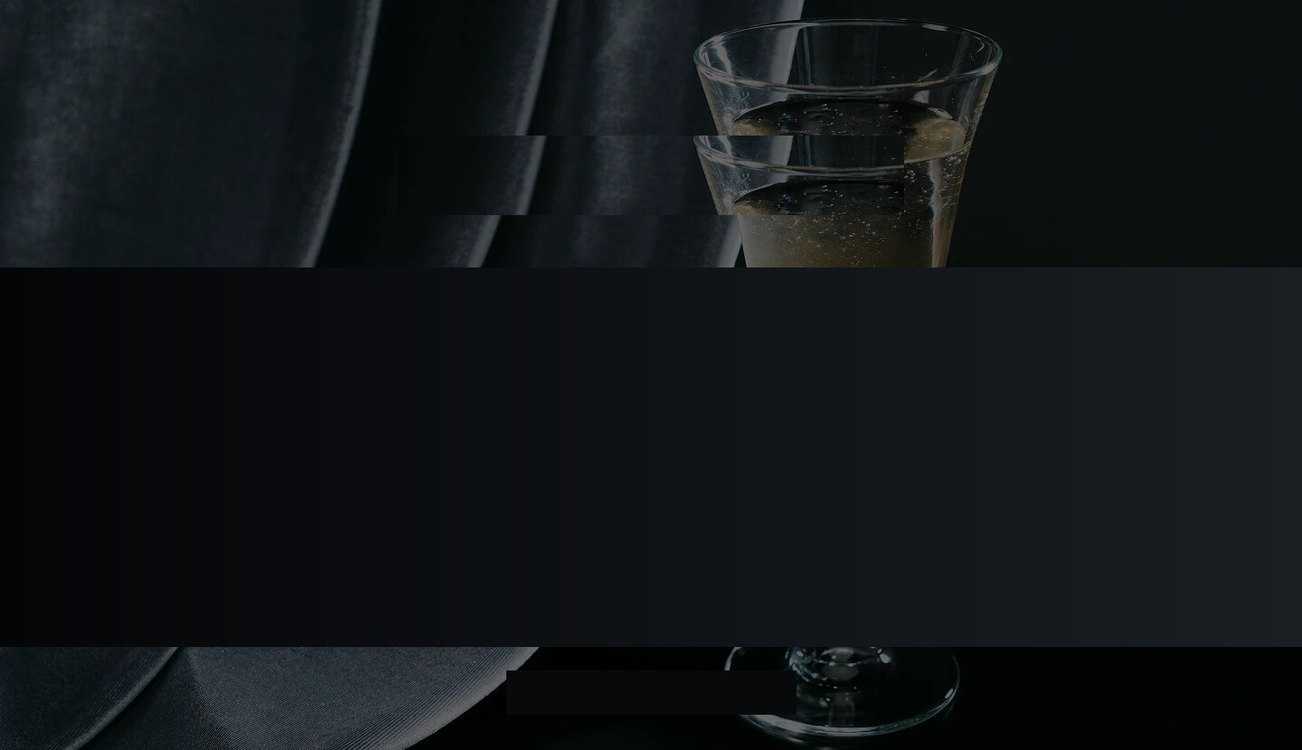
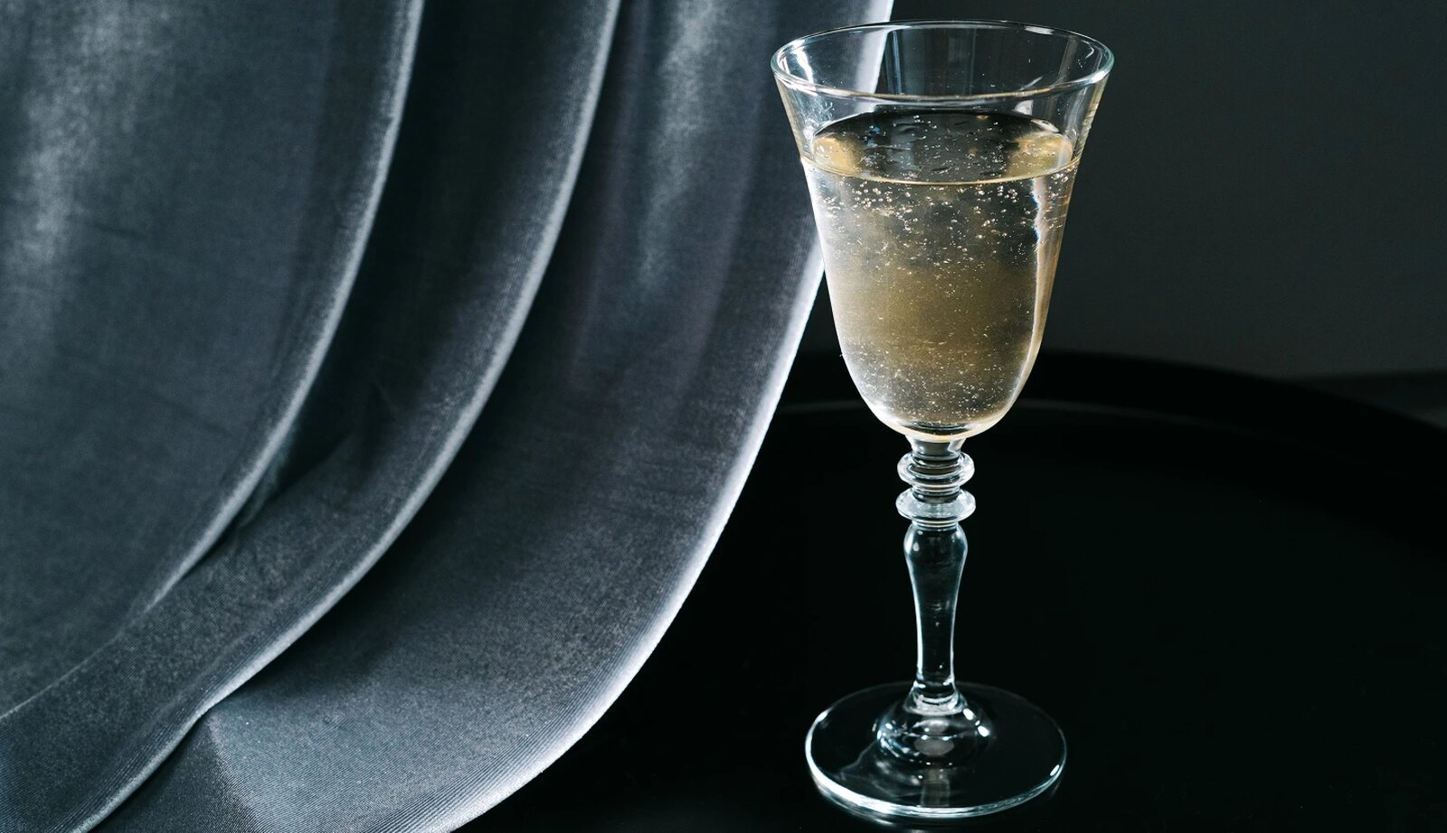
Move clean glass background to testimonials; revert orlando-based to light theme
Claude-Session: https://claude.ai/code/session_01UW4uLMXzVXrjGgTwPhtFqi

diff --git a/meet-us/index.html b/meet-us/index.html
@@ -9,7 +9,7 @@
 <link rel="preconnect" href="https://fonts.googleapis.com">
 <link rel="preconnect" href="https://fonts.gstatic.com" crossorigin>
 <link rel="stylesheet" href="https://fonts.googleapis.com/css2?family=Mr+Bedfort&display=swap">
-<link rel="stylesheet" href="../styles.css?v=38">
+<link rel="stylesheet" href="../styles.css?v=39">
 </head>
 <body class="page-who-we-are">
 <header class="who-we-are-hdr dlc-header">
@@ -21,7 +21,7 @@
   <a href='../' class=''>Home</a><a href='../meet-us/' class=''>Meet Us</a><a href='../services/' class=''>Services</a><a href='../portfolio/' class=''>Portfolio</a><a href='../contact/' class=''>Contact Us</a>
 <div class="dlc-menu-social"><a href="https://www.instagram.com/dl.collective" target="_blank" rel="noopener noreferrer" aria-label="instagram"><svg viewBox="0 0 24 24" aria-hidden="true"><path fill="currentColor" fill-rule="evenodd" clip-rule="evenodd" d="M7 2.5h10A4.5 4.5 0 0 1 21.5 7v10a4.5 4.5 0 0 1-4.5 4.5H7A4.5 4.5 0 0 1 2.5 17V7A4.5 4.5 0 0 1 7 2.5zm5 4.7a4.6 4.6 0 1 0 0 9.2 4.6 4.6 0 0 0 0-9.2zm0 1.8a2.8 2.8 0 1 1 0 5.6 2.8 2.8 0 0 1 0-5.6zm5-2.5a1.1 1.1 0 1 0 0 2.2 1.1 1.1 0 0 0 0-2.2z"/></svg></a><a href="mailto:dl.collective@outlook.com" aria-label="envelope"><svg viewBox="0 0 24 24" aria-hidden="true"><path fill="currentColor" fill-rule="evenodd" clip-rule="evenodd" d="M4 5.5h16A1.5 1.5 0 0 1 21.5 7v10a1.5 1.5 0 0 1-1.5 1.5H4A1.5 1.5 0 0 1 2.5 17V7A1.5 1.5 0 0 1 4 5.5zm.8 2.3L12 12.6l7.2-4.8V8L12 13.2 4.8 8z"/></svg></a><a href="tel:+14077902436" aria-label="phone"><svg viewBox="0 0 24 24" aria-hidden="true"><path fill="currentColor" d="M8.2 4.8c.42 0 .8.26.95.65l1.1 2.75c.15.37.06.8-.24 1.07l-1.3 1.2a9.5 9.5 0 0 0 4 4l1.2-1.3c.27-.3.7-.39 1.07-.24l2.75 1.1c.39.15.65.53.65.95v2.9c0 .58-.47 1.05-1.05 1.04C10.5 20.6 3.4 13.5 3.4 5.85c0-.58.47-1.05 1.05-1.05h3.75z"/></svg></a><a href="https://www.linkedin.com/company/dl-collective-marketing-agency/" target="_blank" rel="noopener noreferrer" aria-label="linkedin"><svg viewBox="0 0 24 24" aria-hidden="true"><path fill="currentColor" d="M20.45 20.45h-3.56v-5.57c0-1.33-.02-3.04-1.85-3.04-1.85 0-2.14 1.45-2.14 2.94v5.67H9.35V9h3.42v1.56h.05c.48-.9 1.64-1.85 3.37-1.85 3.6 0 4.27 2.37 4.27 5.46v6.28zM5.34 7.43a2.07 2.07 0 1 1 0-4.14 2.07 2.07 0 0 1 0 4.14zM7.12 20.45H3.55V9h3.57v11.45zM22.22 0H1.77C.79 0 0 .77 0 1.73v20.54C0 23.22.79 24 1.77 24h20.45c.98 0 1.78-.78 1.78-1.73V1.73C24 .77 23.2 0 22.22 0z"/></svg></a></div></nav><div class="img who-we-are-hdr-2 auto"><a href="../" class="dlc-logo-trigger" aria-label="Open menu"><img class="dlc-logo-dark" src="../media/logos/dlc-logo.png" alt="DL Collective Marketing Agency"><img class="dlc-logo-light" src="../media/logos/dlc-logo-white.png" alt="DL Collective Marketing Agency"></a></div></header>
 <aside class="who-we-are-social dlc-side-social"><a class="icon who-we-are-social-1" href="https://www.instagram.com/dl.collective" target="_blank" rel="noopener noreferrer" aria-label="instagram"><svg viewBox="0 0 24 24" aria-hidden="true"><path fill="currentColor" fill-rule="evenodd" clip-rule="evenodd" d="M7 2.5h10A4.5 4.5 0 0 1 21.5 7v10a4.5 4.5 0 0 1-4.5 4.5H7A4.5 4.5 0 0 1 2.5 17V7A4.5 4.5 0 0 1 7 2.5zm5 4.7a4.6 4.6 0 1 0 0 9.2 4.6 4.6 0 0 0 0-9.2zm0 1.8a2.8 2.8 0 1 1 0 5.6 2.8 2.8 0 0 1 0-5.6zm5-2.5a1.1 1.1 0 1 0 0 2.2 1.1 1.1 0 0 0 0-2.2z"/></svg></a><a class="icon who-we-are-social-2" href="mailto:dl.collective@outlook.com" aria-label="envelope"><svg viewBox="0 0 24 24" aria-hidden="true"><path fill="currentColor" fill-rule="evenodd" clip-rule="evenodd" d="M4 5.5h16A1.5 1.5 0 0 1 21.5 7v10a1.5 1.5 0 0 1-1.5 1.5H4A1.5 1.5 0 0 1 2.5 17V7A1.5 1.5 0 0 1 4 5.5zm.8 2.3L12 12.6l7.2-4.8V8L12 13.2 4.8 8z"/></svg></a><a class="icon who-we-are-social-3" href="tel:+14077902436" aria-label="phone"><svg viewBox="0 0 24 24" aria-hidden="true"><path fill="currentColor" d="M8.2 4.8c.42 0 .8.26.95.65l1.1 2.75c.15.37.06.8-.24 1.07l-1.3 1.2a9.5 9.5 0 0 0 4 4l1.2-1.3c.27-.3.7-.39 1.07-.24l2.75 1.1c.39.15.65.53.65.95v2.9c0 .58-.47 1.05-1.05 1.04C10.5 20.6 3.4 13.5 3.4 5.85c0-.58.47-1.05 1.05-1.05h3.75z"/></svg></a><a class="icon who-we-are-social-4" href="https://www.linkedin.com/company/dl-collective-marketing-agency/" target="_blank" rel="noopener noreferrer" aria-label="linkedin"><svg viewBox="0 0 24 24" aria-hidden="true"><path fill="currentColor" d="M20.45 20.45h-3.56v-5.57c0-1.33-.02-3.04-1.85-3.04-1.85 0-2.14 1.45-2.14 2.94v5.67H9.35V9h3.42v1.56h.05c.48-.9 1.64-1.85 3.37-1.85 3.6 0 4.27 2.37 4.27 5.46v6.28zM5.34 7.43a2.07 2.07 0 1 1 0-4.14 2.07 2.07 0 0 1 0 4.14zM7.12 20.45H3.55V9h3.57v11.45zM22.22 0H1.77C.79 0 0 .77 0 1.73v20.54C0 23.22.79 24 1.77 24h20.45c.98 0 1.78-.78 1.78-1.73V1.73C24 .77 23.2 0 22.22 0z"/></svg></a></aside>
-<main><section class="who-we-are-s1 dlc-hero"><h5 class="who-we-are-s1-1">DL Collective Marketing</h5><h6 class="who-we-are-s1-2">( a strategic marketing collective )</h6><h1 class="who-we-are-s1-3">Partnering with DL Collective means choosing a team driven by passion, precision, and purpose.</h1></section><section class="who-we-are-s2"><div class="inner"><h2 class="who-we-are-s2-1">Meet The Founders</h2><div class="who-we-are-s2-2"><div class="who-we-are-s2-2-1"><div class="img who-we-are-s2-2-1-1"><img src="../media/images/meet-cocktails.jpg" alt="DL Collective team at an Orlando Magic event"></div><h4 class="who-we-are-s2-2-1-2">do one thing and do it well.</h4><div class="text who-we-are-s2-2-1-3"><p>DL Collective is founded and led by Lauren Miller, combining creative direction with strategic insight to help brands grow with clarity and purpose.</p><p><strong style='color:#E0479E'>Lauren,</strong> holds a bachelor's degree in Advertising and a master's in Entrepreneurship from the University of Florida. She brings a background in advertising and marketing, with experience spanning agency work and national brand partnerships. Her foundation in storytelling, creative direction, and campaign strategy drives DL Collective's approach to building brands that feel intentional, authentic, and visually cohesive.</p><p><strong style='color:#E0479E'>Danly,</strong> co-founder holds a bachelor's degree in Business Administration from Southern New Hampshire University. He brings a data-driven perspective shaped by his experience supporting national sales teams at Fortune 500 companies through analytics and performance strategy, specializing in translating data into actionable direction to support measurable, long-term growth.</p><p><strong>Let's collaborate to elevate your brand and create something exceptional together.</strong></p></div></div><div class="who-we-are-s2-2-2"><div class="img who-we-are-s2-2-2-1"><img src="../media/images/meet-founders.jpg" alt="Lauren Miller and Danly, founders of DL Collective"></div></div></div></div></section><section class="who-we-are-s3"><div class="inner"><h2 class="who-we-are-s3-1">Who We Work With</h2><div class="who-we-are-s3-2"><div class="who-we-are-s3-2-1"><div class="img who-we-are-s3-2-1-1"><img src="../media/images/work-food-beverage.jpg?v=2" alt="Food &amp; Beverage"></div><h4 class="who-we-are-s3-2-1-2">Food &amp; Beverage</h4><div class="text who-we-are-s3-2-1-3">Restaurants<br>Bars<br>Cafés &amp; Markets<br>Concepts<br>Chefs &amp; Personalities</div></div><div class="who-we-are-s3-2-2"><div class="img who-we-are-s3-2-2-1"><img src="../media/images/work-hotel-travel.jpg?v=2" alt="Hotel &amp; Travel"></div><h4 class="who-we-are-s3-2-2-2">Hotel &amp; Travel</h4><div class="text who-we-are-s3-2-2-3">Hotels &amp; Resorts<br>Destinations<br>Tours &amp; Travel Services<br>Outdoor &amp; Camping<br>Yachts &amp; Boating</div></div><div class="who-we-are-s3-2-3"><div class="img who-we-are-s3-2-3-1"><img src="../media/images/work-health-wellness.jpg?v=2" alt="Health &amp; Wellness"></div><h4 class="who-we-are-s3-2-3-2">Health &amp; Wellness</h4><div class="text who-we-are-s3-2-3-3">Wellness Tourism<br>Spas<br>Fitness<br>Wellness Design</div></div><div class="who-we-are-s3-2-4"><div class="img who-we-are-s3-2-4-1"><img src="../media/images/work-consumer-goods.jpg?v=2" alt="Consumer Goods"></div><h4 class="who-we-are-s3-2-4-2">Consumer Goods</h4><div class="text who-we-are-s3-2-4-3">Consumer Packaged Goods<br>Beer<br>Wine<br>Spirits<br>Cookbooks</div></div><div class="who-we-are-s3-2-5"><div class="img who-we-are-s3-2-5-1"><img src="../media/images/work-events.jpg?v=2" alt="Events"></div><h4 class="who-we-are-s3-2-5-2">Events</h4><div class="text who-we-are-s3-2-5-3">Festivals<br>Markets<br>Pop-ups<br>Venues<br>Catering</div></div><div class="who-we-are-s3-2-6"><div class="img who-we-are-s3-2-6-1"><img src="../media/images/work-design-architecture.jpg?v=2" alt="Design &amp; Architecture"></div><h4 class="who-we-are-s3-2-6-2">Design &amp; Architecture</h4><div class="text who-we-are-s3-2-6-3">Hospitality Design<br>Food Styling<br>Retail<br>Mixed-Use Developments<br>Real Estate</div></div></div></div></section><section class="who-we-are-s4"><div class="who-we-are-s4-1"></div><div class="who-we-are-s4-2"><h2 class="who-we-are-s4-2-1">How We Work</h2><div class="text who-we-are-s4-2-2">Our services are designed with flexibility in mind. Everything you need to jumpstart your brand's marketing — to learn more or find the best fit for your goals, <a href='../contact/' style='color:#8FD9A0'>contact us</a> for a personalized consultation.</div><ul class="list who-we-are-s4-2-3"><li>Discovery Call</li></ul><div class="text who-we-are-s4-2-4">We learn about your business, goals, and challenges to ensure alignment and define the right direction moving forward.</div><ul class="list who-we-are-s4-2-5"><li>Brand &amp; Marketing Audit</li></ul><div class="text who-we-are-s4-2-6">We review your current brand, content, and marketing efforts to identify opportunities for improvement and growth.</div><ul class="list who-we-are-s4-2-7"><li><svg viewBox="0 0 24 24" width="13" height="13" fill="currentColor" aria-hidden="true"><circle cx="12" cy="12" r="6"/></svg>Strategy &amp; Onboarding</li></ul><div class="text who-we-are-s4-2-8">We establish a clear plan, define priorities, and align creative and marketing strategy before execution begins.</div><ul class="list who-we-are-s4-2-9"><li>Collective Marketing Packages</li></ul><div class="text who-we-are-s4-2-10">Choose from one of our three subscription packages <strong style='color:#B6F11B'>— Essential Presence, Growth Strategy or Premium Creative Partnership —</strong> for ongoing support, or explore our add-on and stand-alone services for one-time projects.</div></div></section><section class="who-we-are-s5"><div class="inner"><h2 class="who-we-are-s5-2">our clients say it best</h2><div class="who-we-are-s5-3"><div class="inner"><div class="who-we-are-s5-3-1"><div class="text who-we-are-s5-3-1-1"><span class="qm" style='color:#2E9BD6'>&ldquo;</span> As a luxury custom home builder, our reputation is built on relationships and trust. DL Collective has helped us communicate that through thoughtful content &amp; events. <span class="qm" style='color:#2E9BD6'>&rdquo;</span></div><h4 class="who-we-are-s5-3-1-2">Dean Miller</h4><div class="text who-we-are-s5-3-1-3">@DeanAllenCompany</div></div><div class="who-we-are-s5-3-2"><div class="text who-we-are-s5-3-2-1"><span class="qm" style='color:#7CB342'>&ldquo;</span> DL Collective has helped refine how AllyCar connects with our customers. Their marketing reflects the level of service and professionalism we aim to provide. <span class="qm" style='color:#7CB342'>&rdquo;</span></div><h4 class="who-we-are-s5-3-2-2">Gil Guimaraes</h4><div class="text who-we-are-s5-3-2-3">@AllyCar</div></div><div class="who-we-are-s5-3-3"><div class="text who-we-are-s5-3-3-1"><span class="qm" style='color:#E0479E'>&ldquo;</span> Working with DL Collective was a great experience. The photos, videos, and marketing materials captured our brand very well. <span class="qm" style='color:#E0479E'>&rdquo;</span></div><h4 class="who-we-are-s5-3-3-2">Dylan Moreno</h4><div class="text who-we-are-s5-3-3-3">@PrestigeBarberLounge</div><div class="pb-mono">PB</div></div></div></div><div class="btn who-we-are-s5-4"><a href="../">Show More</a></div></div></section><section class="who-we-are-s6"><div class="inner"><h2 class="who-we-are-s6-1">orlando-based, clients worldwide</h2><div class="text who-we-are-s6-2 dlc-narrow">DL Collective is based in Winter Park, Florida, and currently serves businesses throughout Florida as well as national clients across the United States. We regularly travel for onsite content production, photography, videography, and marketing engagements when needed.</div><div class="who-we-are-s6-3"><div class="inner"><div class="who-we-are-s6-3-1"><span class="icon who-we-are-s6-3-1-1"><img src="../media/images/loc-winter-park-white.png" alt=""></span><h5 class="who-we-are-s6-3-1-2">Winter Park, FL</h5></div><div class="who-we-are-s6-3-2"><span class="icon who-we-are-s6-3-2-1"><img src="../media/images/loc-orlando-white.png" alt=""></span><h5 class="who-we-are-s6-3-2-2">Orlando, FL</h5></div><div class="who-we-are-s6-3-3"><span class="icon who-we-are-s6-3-3-1"><img src="../media/images/loc-central-florida-white.png" alt=""></span><h5 class="who-we-are-s6-3-3-2">Central Florida</h5></div><div class="who-we-are-s6-3-4"><span class="icon who-we-are-s6-3-4-1"><img src="../media/images/loc-florida-statewide-white.png" alt=""></span><h5 class="who-we-are-s6-3-4-2">Florida Statewide</h5></div><div class="who-we-are-s6-3-5"><span class="icon who-we-are-s6-3-5-1"><img src="../media/images/loc-nationwide-white.png" alt=""></span><h5 class="who-we-are-s6-3-5-2">Nationwide, USA</h5></div></div></div></div></section></main>
+<main><section class="who-we-are-s1 dlc-hero"><h5 class="who-we-are-s1-1">DL Collective Marketing</h5><h6 class="who-we-are-s1-2">( a strategic marketing collective )</h6><h1 class="who-we-are-s1-3">Partnering with DL Collective means choosing a team driven by passion, precision, and purpose.</h1></section><section class="who-we-are-s2"><div class="inner"><h2 class="who-we-are-s2-1">Meet The Founders</h2><div class="who-we-are-s2-2"><div class="who-we-are-s2-2-1"><div class="img who-we-are-s2-2-1-1"><img src="../media/images/meet-cocktails.jpg" alt="DL Collective team at an Orlando Magic event"></div><h4 class="who-we-are-s2-2-1-2">do one thing and do it well.</h4><div class="text who-we-are-s2-2-1-3"><p>DL Collective is founded and led by Lauren Miller, combining creative direction with strategic insight to help brands grow with clarity and purpose.</p><p><strong style='color:#E0479E'>Lauren,</strong> holds a bachelor's degree in Advertising and a master's in Entrepreneurship from the University of Florida. She brings a background in advertising and marketing, with experience spanning agency work and national brand partnerships. Her foundation in storytelling, creative direction, and campaign strategy drives DL Collective's approach to building brands that feel intentional, authentic, and visually cohesive.</p><p><strong style='color:#E0479E'>Danly,</strong> co-founder holds a bachelor's degree in Business Administration from Southern New Hampshire University. He brings a data-driven perspective shaped by his experience supporting national sales teams at Fortune 500 companies through analytics and performance strategy, specializing in translating data into actionable direction to support measurable, long-term growth.</p><p><strong>Let's collaborate to elevate your brand and create something exceptional together.</strong></p></div></div><div class="who-we-are-s2-2-2"><div class="img who-we-are-s2-2-2-1"><img src="../media/images/meet-founders.jpg" alt="Lauren Miller and Danly, founders of DL Collective"></div></div></div></div></section><section class="who-we-are-s3"><div class="inner"><h2 class="who-we-are-s3-1">Who We Work With</h2><div class="who-we-are-s3-2"><div class="who-we-are-s3-2-1"><div class="img who-we-are-s3-2-1-1"><img src="../media/images/work-food-beverage.jpg?v=2" alt="Food &amp; Beverage"></div><h4 class="who-we-are-s3-2-1-2">Food &amp; Beverage</h4><div class="text who-we-are-s3-2-1-3">Restaurants<br>Bars<br>Cafés &amp; Markets<br>Concepts<br>Chefs &amp; Personalities</div></div><div class="who-we-are-s3-2-2"><div class="img who-we-are-s3-2-2-1"><img src="../media/images/work-hotel-travel.jpg?v=2" alt="Hotel &amp; Travel"></div><h4 class="who-we-are-s3-2-2-2">Hotel &amp; Travel</h4><div class="text who-we-are-s3-2-2-3">Hotels &amp; Resorts<br>Destinations<br>Tours &amp; Travel Services<br>Outdoor &amp; Camping<br>Yachts &amp; Boating</div></div><div class="who-we-are-s3-2-3"><div class="img who-we-are-s3-2-3-1"><img src="../media/images/work-health-wellness.jpg?v=2" alt="Health &amp; Wellness"></div><h4 class="who-we-are-s3-2-3-2">Health &amp; Wellness</h4><div class="text who-we-are-s3-2-3-3">Wellness Tourism<br>Spas<br>Fitness<br>Wellness Design</div></div><div class="who-we-are-s3-2-4"><div class="img who-we-are-s3-2-4-1"><img src="../media/images/work-consumer-goods.jpg?v=2" alt="Consumer Goods"></div><h4 class="who-we-are-s3-2-4-2">Consumer Goods</h4><div class="text who-we-are-s3-2-4-3">Consumer Packaged Goods<br>Beer<br>Wine<br>Spirits<br>Cookbooks</div></div><div class="who-we-are-s3-2-5"><div class="img who-we-are-s3-2-5-1"><img src="../media/images/work-events.jpg?v=2" alt="Events"></div><h4 class="who-we-are-s3-2-5-2">Events</h4><div class="text who-we-are-s3-2-5-3">Festivals<br>Markets<br>Pop-ups<br>Venues<br>Catering</div></div><div class="who-we-are-s3-2-6"><div class="img who-we-are-s3-2-6-1"><img src="../media/images/work-design-architecture.jpg?v=2" alt="Design &amp; Architecture"></div><h4 class="who-we-are-s3-2-6-2">Design &amp; Architecture</h4><div class="text who-we-are-s3-2-6-3">Hospitality Design<br>Food Styling<br>Retail<br>Mixed-Use Developments<br>Real Estate</div></div></div></div></section><section class="who-we-are-s4"><div class="who-we-are-s4-1"></div><div class="who-we-are-s4-2"><h2 class="who-we-are-s4-2-1">How We Work</h2><div class="text who-we-are-s4-2-2">Our services are designed with flexibility in mind. Everything you need to jumpstart your brand's marketing — to learn more or find the best fit for your goals, <a href='../contact/' style='color:#8FD9A0'>contact us</a> for a personalized consultation.</div><ul class="list who-we-are-s4-2-3"><li>Discovery Call</li></ul><div class="text who-we-are-s4-2-4">We learn about your business, goals, and challenges to ensure alignment and define the right direction moving forward.</div><ul class="list who-we-are-s4-2-5"><li>Brand &amp; Marketing Audit</li></ul><div class="text who-we-are-s4-2-6">We review your current brand, content, and marketing efforts to identify opportunities for improvement and growth.</div><ul class="list who-we-are-s4-2-7"><li><svg viewBox="0 0 24 24" width="13" height="13" fill="currentColor" aria-hidden="true"><circle cx="12" cy="12" r="6"/></svg>Strategy &amp; Onboarding</li></ul><div class="text who-we-are-s4-2-8">We establish a clear plan, define priorities, and align creative and marketing strategy before execution begins.</div><ul class="list who-we-are-s4-2-9"><li>Collective Marketing Packages</li></ul><div class="text who-we-are-s4-2-10">Choose from one of our three subscription packages <strong style='color:#B6F11B'>— Essential Presence, Growth Strategy or Premium Creative Partnership —</strong> for ongoing support, or explore our add-on and stand-alone services for one-time projects.</div></div></section><section class="who-we-are-s5"><div class="inner"><h2 class="who-we-are-s5-2">our clients say it best</h2><div class="who-we-are-s5-3"><div class="inner"><div class="who-we-are-s5-3-1"><div class="text who-we-are-s5-3-1-1"><span class="qm" style='color:#2E9BD6'>&ldquo;</span> As a luxury custom home builder, our reputation is built on relationships and trust. DL Collective has helped us communicate that through thoughtful content &amp; events. <span class="qm" style='color:#2E9BD6'>&rdquo;</span></div><h4 class="who-we-are-s5-3-1-2">Dean Miller</h4><div class="text who-we-are-s5-3-1-3">@DeanAllenCompany</div></div><div class="who-we-are-s5-3-2"><div class="text who-we-are-s5-3-2-1"><span class="qm" style='color:#7CB342'>&ldquo;</span> DL Collective has helped refine how AllyCar connects with our customers. Their marketing reflects the level of service and professionalism we aim to provide. <span class="qm" style='color:#7CB342'>&rdquo;</span></div><h4 class="who-we-are-s5-3-2-2">Gil Guimaraes</h4><div class="text who-we-are-s5-3-2-3">@AllyCar</div></div><div class="who-we-are-s5-3-3"><div class="text who-we-are-s5-3-3-1"><span class="qm" style='color:#E0479E'>&ldquo;</span> Working with DL Collective was a great experience. The photos, videos, and marketing materials captured our brand very well. <span class="qm" style='color:#E0479E'>&rdquo;</span></div><h4 class="who-we-are-s5-3-3-2">Dylan Moreno</h4><div class="text who-we-are-s5-3-3-3">@PrestigeBarberLounge</div><div class="pb-mono">PB</div></div></div></div><div class="btn who-we-are-s5-4"><a href="../">Show More</a></div></div></section><section class="who-we-are-s6"><div class="inner"><h2 class="who-we-are-s6-1">orlando-based, clients worldwide</h2><div class="text who-we-are-s6-2 dlc-narrow">DL Collective is based in Winter Park, Florida, and currently serves businesses throughout Florida as well as national clients across the United States. We regularly travel for onsite content production, photography, videography, and marketing engagements when needed.</div><div class="who-we-are-s6-3"><div class="inner"><div class="who-we-are-s6-3-1"><span class="icon who-we-are-s6-3-1-1"><img src="../media/images/loc-winter-park.png" alt=""></span><h5 class="who-we-are-s6-3-1-2">Winter Park, FL</h5></div><div class="who-we-are-s6-3-2"><span class="icon who-we-are-s6-3-2-1"><img src="../media/images/loc-orlando.png" alt=""></span><h5 class="who-we-are-s6-3-2-2">Orlando, FL</h5></div><div class="who-we-are-s6-3-3"><span class="icon who-we-are-s6-3-3-1"><img src="../media/images/loc-central-florida.png" alt=""></span><h5 class="who-we-are-s6-3-3-2">Central Florida</h5></div><div class="who-we-are-s6-3-4"><span class="icon who-we-are-s6-3-4-1"><img src="../media/images/loc-florida-statewide.png" alt=""></span><h5 class="who-we-are-s6-3-4-2">Florida Statewide</h5></div><div class="who-we-are-s6-3-5"><span class="icon who-we-are-s6-3-5-1"><img src="../media/images/loc-nationwide.png" alt=""></span><h5 class="who-we-are-s6-3-5-2">Nationwide, USA</h5></div></div></div></div></section></main>
 <footer class="who-we-are-ftr dlc-footer"><div class="inner"><div class="who-we-are-ftr-1"><div class="who-we-are-ftr-1-1"><div class="img who-we-are-ftr-1-1-1"><img src="../media/logos/dlc-wordmark-white.png" alt="DL Collective Marketing Agency"></div><div class="text who-we-are-ftr-1-1-2">© 2026 DL Collective Marketing Agency<br>Elevating Brands Through Strategy, Branding &amp; Digital Excellence</div></div><div class="who-we-are-ftr-1-2"><div class="who-we-are-ftr-1-2-1"><h4 class="who-we-are-ftr-1-2-1-1">Navigation</h4><ul class="list who-we-are-ftr-1-2-1-2"><li><a href="../">Home</a></li><li><a href="../services/">Services</a></li><li><a href="../meet-us/">Meet Us</a></li><li><a href="../contact/">Contact Us</a></li></ul></div><div class="who-we-are-ftr-1-2-2"><h4 class="who-we-are-ftr-1-2-2-1">Explore</h4><ul class="list who-we-are-ftr-1-2-2-2"><li><a href="../portfolio/">Portfolio</a></li><li><a href="../careers/">Careers</a></li><li><a href="../faq/">FAQ</a></li><li><a href="https://www.instagram.com/dl.collective" target="_blank" rel="noopener noreferrer">Instagram</a></li><li><a href="https://www.linkedin.com/company/dl-collective-marketing-agency/" target="_blank" rel="noopener noreferrer">LinkedIn</a></li></ul></div><div class="who-we-are-ftr-1-2-3"><h4 class="who-we-are-ftr-1-2-3-1">Contact</h4><ul class="list who-we-are-ftr-1-2-3-2"><li><a href="mailto:dl.collective@outlook.com">Say Hello!</a></li><li><a href="tel:+14077902436">+1 (407) 790-2436</a></li><li>Winter Park, Florida</li><li><a href="../contact/#form">Let's Connect</a></li></ul></div></div></div><div class="who-we-are-ftr-2"><div class="text who-we-are-ftr-2-1"><a href='#' style='color:inherit'>Privacy Policy</a> &nbsp;|&nbsp; <a href='#' style='color:inherit'>Terms of Service</a></div></div></div></footer>
 <script src="../script.js?v=5"></script>
 </body>

diff --git a/styles.css b/styles.css
@@ -308,12 +308,7 @@ body{font-family:'Delight','Montserrat',sans-serif;margin:0;color:#1A1A18;}
 .who-we-are-s5-4 a:hover{background:rgba(0,0,0,0);color:#FFFFFF}
 .who-we-are-s5-4{text-align:center}
 .who-we-are-s6>.inner{max-width:1180px;width:100%;min-height:inherit;position:relative;display:flex;flex-direction:column;gap:34px 34px;align-items:center}
-.who-we-are-s6{background:url(media/images/orlando-bg.jpg) center center/cover no-repeat;background-color:#0a0a0a;padding:100px 34px 100px 34px;display:flex;flex-direction:column;align-items:center;position:relative}
-.who-we-are-s6::before{content:"";position:absolute;inset:0;background:rgba(8,10,12,.52);z-index:0;pointer-events:none}
-.who-we-are-s6>.inner{position:relative;z-index:1}
-.who-we-are-s6-1{color:#FFFFFF}
-.who-we-are-s6-2{color:#D8DCDE}
-.who-we-are-s6-3-1-2,.who-we-are-s6-3-2-2,.who-we-are-s6-3-3-2,.who-we-are-s6-3-4-2,.who-we-are-s6-3-5-2{color:#FFFFFF}
+.who-we-are-s6{background-color:#FFFFFF;padding:100px 34px 100px 34px;display:flex;flex-direction:column;align-items:center}
 .who-we-are-s6-1{font-size:44px;line-height:1.15em;font-weight:600;color:#1A1A18;text-align:center}
 .who-we-are-s6-2{font-size:14px;line-height:1.8em;font-weight:400;color:#4A4A4A;text-align:center}
 .who-we-are-s6-3>.inner{max-width:820px;width:100%;min-height:inherit;position:relative;display:grid;grid-template-columns:repeat(5,1fr);gap:36px 30px}
@@ -1209,8 +1204,3 @@ body.page-who-we-are:not(.scrolled) .dlc-header .dlc-logo-light{display:inline-b
 
 /* Location sketch icons */
 .who-we-are-s6-3 .icon img{height:78px;width:auto;display:block;margin:0 auto}
-
-/* Orlando section on dark glass bg — white text (placed last to win) */
-.who-we-are-s6-1{color:#FFFFFF}
-.who-we-are-s6-2{color:#D8DCDE}
-.who-we-are-s6-3-1-2,.who-we-are-s6-3-2-2,.who-we-are-s6-3-3-2,.who-we-are-s6-3-4-2,.who-we-are-s6-3-5-2{color:#FFFFFF}

diff --git a/video-examples/index.html b/video-examples/index.html
@@ -6,7 +6,7 @@
 <title>Videography Examples — DL Collective Marketing</title>
 <meta name="description" content="A glance into the DL Collective videography portfolio — professional, commercial, social, and event video content for brands across industries.">
 <link rel="icon" href="../media/logos/favicon.png">
-<link rel="stylesheet" href="../styles.css?v=38">
+<link rel="stylesheet" href="../styles.css?v=39">
 </head>
 <body class="page-video-examples">
 <header class="our-work-hdr dlc-header">

diff --git a/photo-examples/index.html b/photo-examples/index.html
@@ -6,7 +6,7 @@
 <title>Photography Examples — DL Collective Marketing</title>
 <meta name="description" content="A glance into the DL Collective photography portfolio — professional, commercial, social, and event photography for brands across industries.">
 <link rel="icon" href="../media/logos/favicon.png">
-<link rel="stylesheet" href="../styles.css?v=38">
+<link rel="stylesheet" href="../styles.css?v=39">
 </head>
 <body class="page-photo-examples">
 <header class="our-work-hdr dlc-header">

diff --git a/services/index.html b/services/index.html
@@ -6,7 +6,7 @@
 <title>What We Do — DL Collective Marketing</title>
 <meta name="description" content="A strategic marketing collective in Winter Park, Florida, helping brands across industries grow through thoughtful creative and strategic execution.">
 <link rel="icon" href="../media/logos/favicon.png">
-<link rel="stylesheet" href="../styles.css?v=38">
+<link rel="stylesheet" href="../styles.css?v=39">
 </head>
 <body class="page-what-we-do">
 <header class="what-we-do-hdr dlc-header">

diff --git a/portfolio/index.html b/portfolio/index.html
@@ -6,7 +6,7 @@
 <title>Our Work — DL Collective Marketing</title>
 <meta name="description" content="A strategic marketing collective in Winter Park, Florida, helping brands across industries grow through thoughtful creative and strategic execution.">
 <link rel="icon" href="../media/logos/favicon.png">
-<link rel="stylesheet" href="../styles.css?v=38">
+<link rel="stylesheet" href="../styles.css?v=39">
 </head>
 <body class="page-our-work">
 <header class="our-work-hdr dlc-header">

diff --git a/contact/index.html b/contact/index.html
@@ -6,7 +6,7 @@
 <title>Contact — DL Collective Marketing</title>
 <meta name="description" content="A strategic marketing collective in Winter Park, Florida, helping brands across industries grow through thoughtful creative and strategic execution.">
 <link rel="icon" href="../media/logos/favicon.png">
-<link rel="stylesheet" href="../styles.css?v=38">
+<link rel="stylesheet" href="../styles.css?v=39">
 </head>
 <body class="page-contact">
 <header class="contact-hdr dlc-header">

diff --git a/careers/index.html b/careers/index.html
@@ -6,7 +6,7 @@
 <title>Careers — DL Collective Marketing</title>
 <meta name="description" content="Join DL Collective — we're always looking for passionate creatives, strategists, and storytellers who want to help brands grow.">
 <link rel="icon" href="../media/logos/favicon.png">
-<link rel="stylesheet" href="../styles.css?v=38">
+<link rel="stylesheet" href="../styles.css?v=39">
 </head>
 <body class="page-careers">
 <header class="careers-hdr dlc-header">

diff --git a/faq/index.html b/faq/index.html
@@ -6,7 +6,7 @@
 <title>FAQ — DL Collective Marketing</title>
 <meta name="description" content="Frequently asked questions about working with DL Collective — services, process, pricing, location, and timelines.">
 <link rel="icon" href="../media/logos/favicon.png">
-<link rel="stylesheet" href="../styles.css?v=38">
+<link rel="stylesheet" href="../styles.css?v=39">
 </head>
 <body class="page-faq">
 <header class="our-work-hdr dlc-header">

diff --git a/index.html b/index.html
@@ -9,7 +9,7 @@
 <link rel="preconnect" href="https://fonts.googleapis.com">
 <link rel="preconnect" href="https://fonts.gstatic.com" crossorigin>
 <link rel="stylesheet" href="https://fonts.googleapis.com/css2?family=Mr+Bedfort&display=swap">
-<link rel="stylesheet" href="styles.css?v=38">
+<link rel="stylesheet" href="styles.css?v=39">
 </head>
 <body class="page-index">
 <header class="index-hdr dlc-header">
